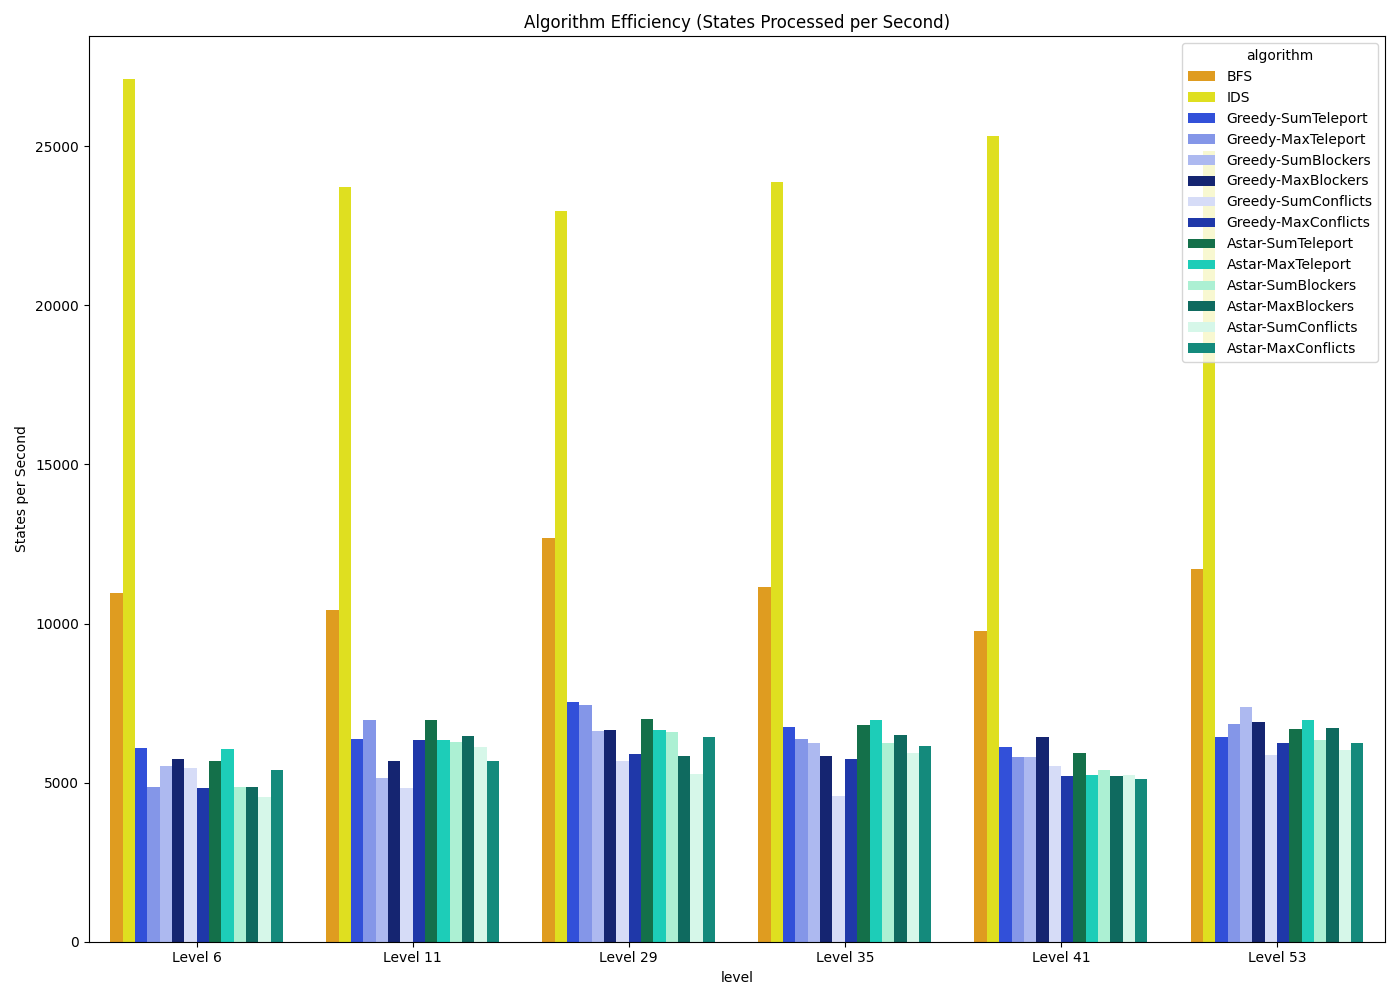
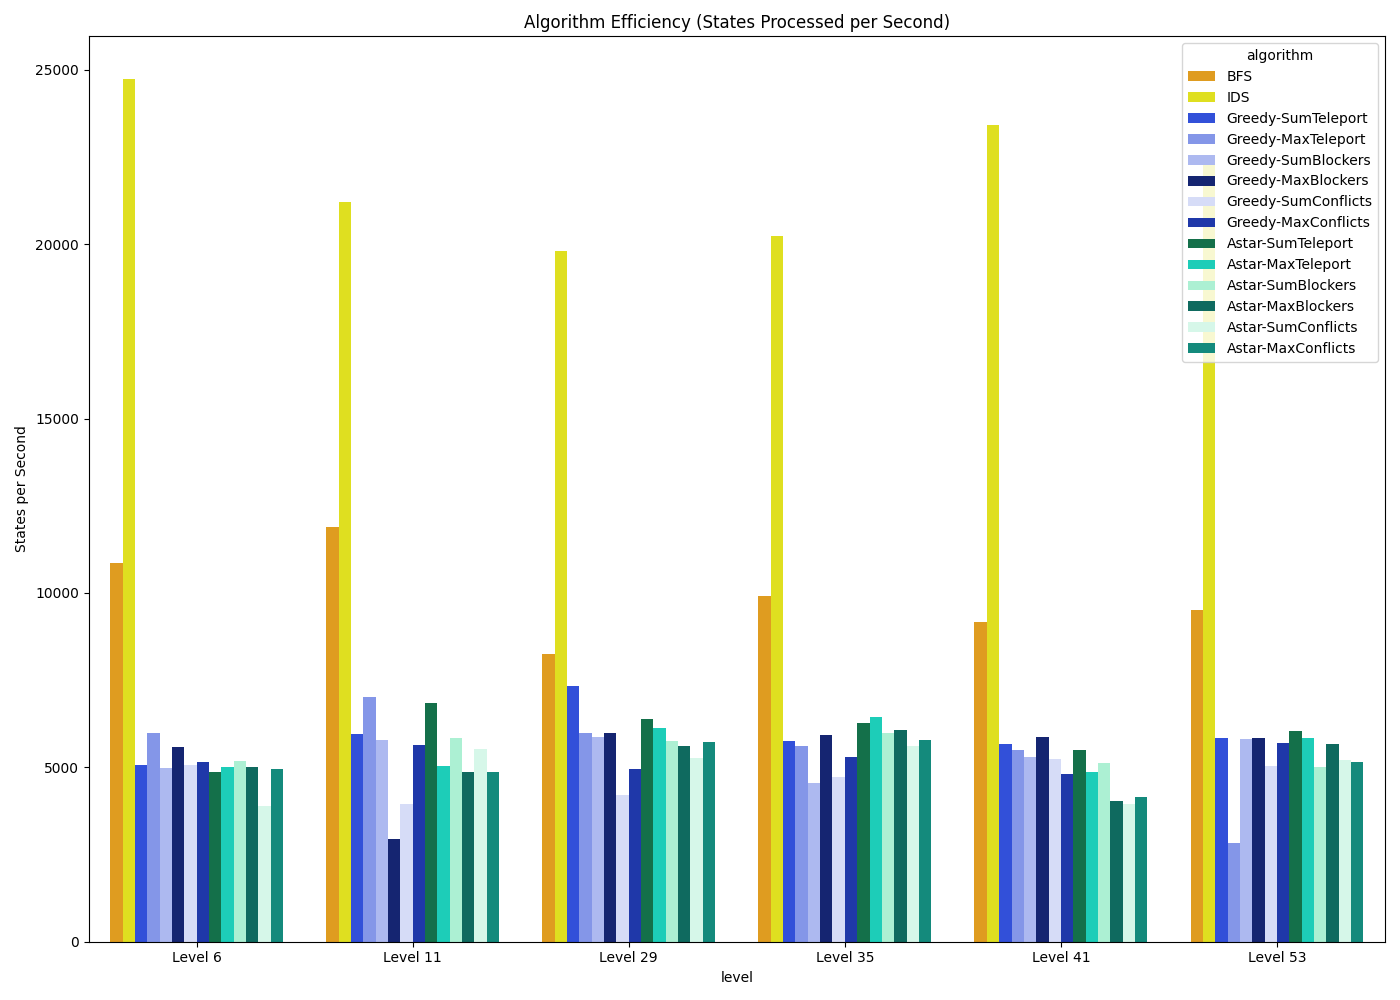
Improve conflicts heuristic

diff --git a/heuristic.py b/heuristic.py
@@ -40,10 +40,10 @@ class MinMovesHeuristic(Heuristic):
         targets = [pos for pos, col in state.targets.items() if col == color]
 
         if len(tiles) > self.MAX_TILES_PER_COLOR:
-            return self._simple_calculation(tiles, targets, state.blockers, state.tiles)
-        return self._permutational_calculation(tiles, targets, state.blockers, state.tiles)
+            return self._simple_calculation(tiles, targets, state.blockers, state.tiles, state.targets)
+        return self._permutational_calculation(tiles, targets, state.blockers, state.tiles, state.targets)
 
-    def _simple_calculation(self, tiles: list, targets: list, blockers: list = None, tiles_dict: dict = None) -> int:
+    def _simple_calculation(self, tiles: list, targets: list, blockers: list = None, tiles_dict: dict = None, targets_dict: dict = None) -> int:
         """Performs a simple calculation for the heuristic.
 
         Args:
@@ -51,6 +51,7 @@ class MinMovesHeuristic(Heuristic):
             targets (list): List of target positions.
             blockers (list, optional): List of blocker positions. Defaults to None.
             tiles_dict (dict, optional): Dictionary of tile positions and colors. Defaults to None.
+            targets_dict (dict, optional): Dictionary of target positions and colors. Defaults to None.
 
         Returns:
             int: The heuristic value.
@@ -64,7 +65,7 @@ class MinMovesHeuristic(Heuristic):
             
             for target_pos in targets:
                 if target_pos not in used_targets:
-                    moves = self._calculate_moves(tile_pos, target_pos, blockers, tiles_dict)
+                    moves = self._calculate_moves(tile_pos, target_pos, blockers, tiles_dict, targets_dict)
                     if moves < min_moves:
                         min_moves = moves
                         best_target = target_pos
@@ -75,7 +76,7 @@ class MinMovesHeuristic(Heuristic):
             
         return result
 
-    def _permutational_calculation(self, tiles: list, targets: list, blockers: list = None, tiles_dict: dict = None) -> int:
+    def _permutational_calculation(self, tiles: list, targets: list, blockers: list = None, tiles_dict: dict = None, targets_dict: dict = None) -> int:
         """Performs a permutational calculation for the heuristic.
 
         Args:
@@ -83,6 +84,7 @@ class MinMovesHeuristic(Heuristic):
             targets (list): List of target positions.
             blockers (list, optional): List of blocker positions. Defaults to None.
             tiles_dict (dict, optional): Dictionary of tile positions and colors. Defaults to None.
+            targets_dict (dict, optional): Dictionary of target positions and colors. Defaults to None.
 
         Returns:
             int: The heuristic value.
@@ -92,14 +94,14 @@ class MinMovesHeuristic(Heuristic):
         for target_arrangement in permutations(targets):
             current = 0
             for tile_pos, target_pos in zip(tiles, target_arrangement):
-                moves = self._calculate_moves(tile_pos, target_pos, blockers, tiles_dict)
+                moves = self._calculate_moves(tile_pos, target_pos, blockers, tiles_dict, targets_dict)
                 current = self._update_partial(current, moves)
             best_result = min(best_result, current)
             
         return best_result
 
     @abstractmethod
-    def _calculate_moves(self, tile_pos: tuple, target_pos: tuple, blockers: list = None, tiles_dict: dict = None) -> int:
+    def _calculate_moves(self, tile_pos: tuple, target_pos: tuple, blockers: list = None, tiles_dict: dict = None, targets_dict = None) -> int:
         """Calculates the number of moves between a tile and a target.
 
         Args:
@@ -107,6 +109,7 @@ class MinMovesHeuristic(Heuristic):
             target_pos (tuple): The position of the target.
             blockers (list, optional): List of blocker positions. Defaults to None.
             tiles_dict (dict, optional): Dictionary of tile positions and colors. Defaults to None.
+            targets_dict (dict, optional): Dictionary of target positions and colors. Defaults to None.
 
         Returns:
             int: The number of moves.
@@ -221,14 +224,15 @@ class MaxMinMoves(MinMovesHeuristic):
         return max(results)
 
 class TeleportMoves:
-    def _calculate_moves(self, tile_pos: tuple, target_pos: tuple, blockers: list = None, color: str = None) -> int:
+    def _calculate_moves(self, tile_pos: tuple, target_pos: tuple, blockers: list = None,  tiles_dict: dict = None, targets_dict: dict = None) -> int:
         """Calculates the number of moves between a tile and a target using teleport movement.
 
         Args:
             tile_pos (tuple): The position of the tile.
             target_pos (tuple): The position of the target.
             blockers (list, optional): List of blocker positions. Defaults to None.
-            color (str, optional): The color of the tile. Defaults to None.
+            tiles_dict (dict, optional): Dictionary of tile positions and colors. Defaults to None.
+            targets_dict (dict, optional): Dictionary of target positions and colors. Defaults to None.
 
         Returns:
             int: The number of moves.
@@ -248,7 +252,7 @@ class MaxMinMovesTeleport(TeleportMoves, MaxMinMoves):
     pass
 
 class BlockerMoves:
-    def _calculate_moves(self, tile_pos: tuple, target_pos: tuple, blockers: list, tiles_dict: dict = None) -> int:
+    def _calculate_moves(self, tile_pos: tuple, target_pos: tuple, blockers: list, tiles_dict: dict = None, targets_dict: dict = None) -> int:
         """Calculates the number of moves between a tile and a target considering blockers.
 
         Args:
@@ -256,6 +260,7 @@ class BlockerMoves:
             target_pos (tuple): The position of the target.
             blockers (list): List of blocker positions.
             tiles_dict (dict, optional): Dictionary of tile positions and colors. Defaults to None.
+            targets_dict (dict, optional): Dictionary of target positions and colors. Defaults to None.
 
         Returns:
             int: The number of moves.
@@ -318,7 +323,7 @@ class MaxMinMovesBlockers(BlockerMoves, MaxMinMoves):
     pass
 
 class ConflictMoves:
-    def _calculate_moves(self, tile_pos: tuple, target_pos: tuple, blockers: list, tiles_dict: dict) -> int:
+    def _calculate_moves(self, tile_pos: tuple, target_pos: tuple, blockers: list, tiles_dict: dict, targets_dict: dict) -> int:
         """Calculates the number of moves between a tile and a target considering other color tiles as blockers.
 
         Args:
@@ -326,6 +331,7 @@ class ConflictMoves:
             target_pos (tuple): The position of the target.
             blockers (list): List of blocker positions.
             tiles_dict (dict): Dictionary of tile positions and colors.
+            targets_dict (dict): Dictionary of target positions and colors.
 
         Returns:
             int: The number of moves.
@@ -342,7 +348,12 @@ class ConflictMoves:
             max_row = max(tile_pos[1], target_pos[1])
             for other_tile in other_tiles:
                 if other_tile[0] == tile_pos[0] and min_row <= other_tile[1] <= max_row:
-                    return 2
+                    #Check if the other tile has a matching target in the same distance as the tiles are from each other
+                    other_tile_color = tiles_dict[other_tile]
+                    potential_target_row = target_pos[1] + (other_tile[1] - tile_pos[1])
+                    potential_target = (target_pos[0], potential_target_row)
+                    if potential_target not in targets_dict or targets_dict[potential_target] != other_tile_color:
+                        return 2
             return 1
 
         if tile_pos[1] == target_pos[1]:  # Same row
@@ -350,7 +361,12 @@ class ConflictMoves:
             max_col = max(tile_pos[0], target_pos[0])
             for other_tile in other_tiles:
                 if other_tile[1] == tile_pos[1] and min_col <= other_tile[0] <= max_col:
-                    return 2
+                    #Check if the other tile has a matching target in the same distance as the tiles are from each other
+                    other_tile_color = tiles_dict[other_tile]
+                    potential_target_column = target_pos[0] + (other_tile[0] - tile_pos[0])
+                    potential_target = (potential_target_column, target_pos[1])
+                    if potential_target not in targets_dict or targets_dict[potential_target] != other_tile_color:
+                        return 2
             return 1
 
         return 2
